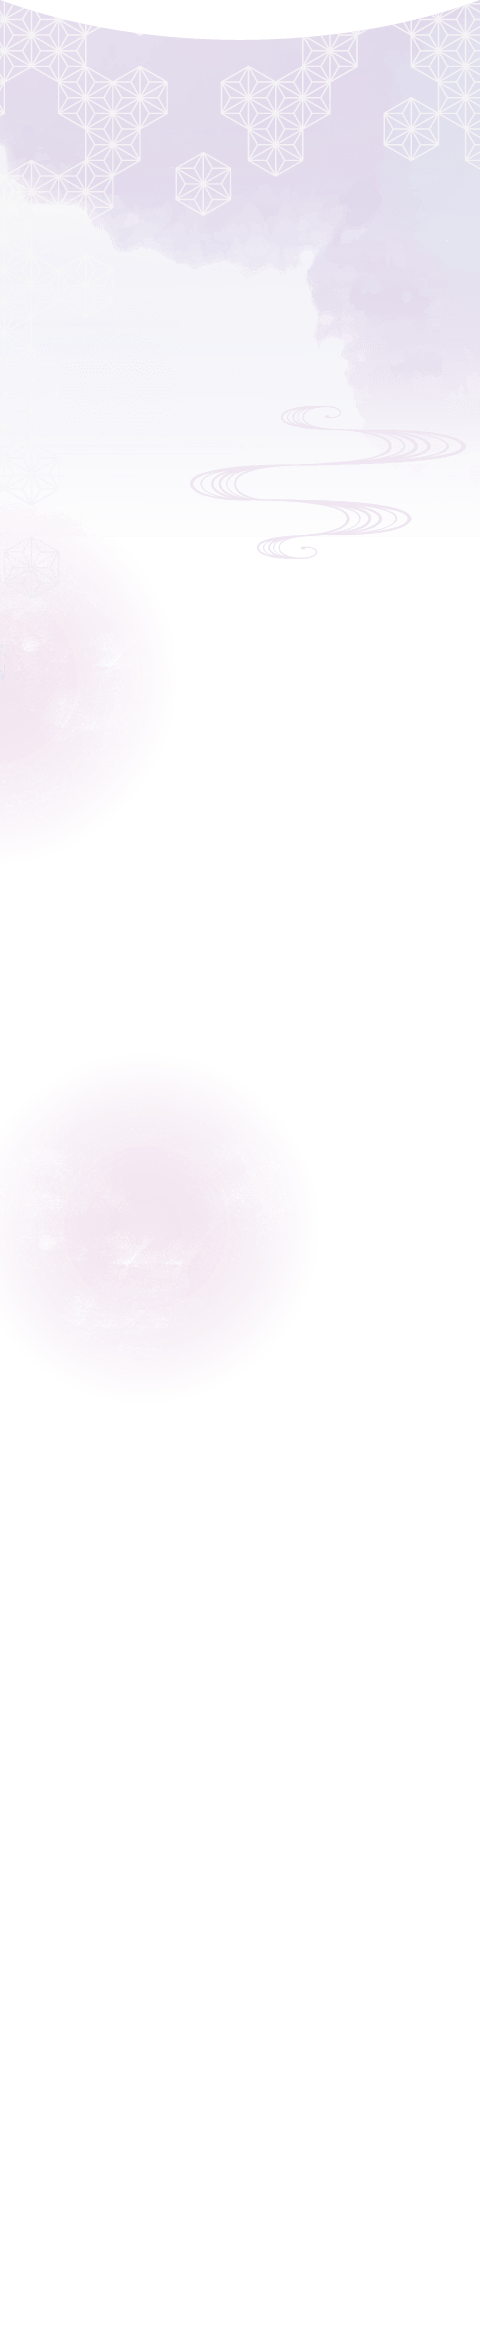
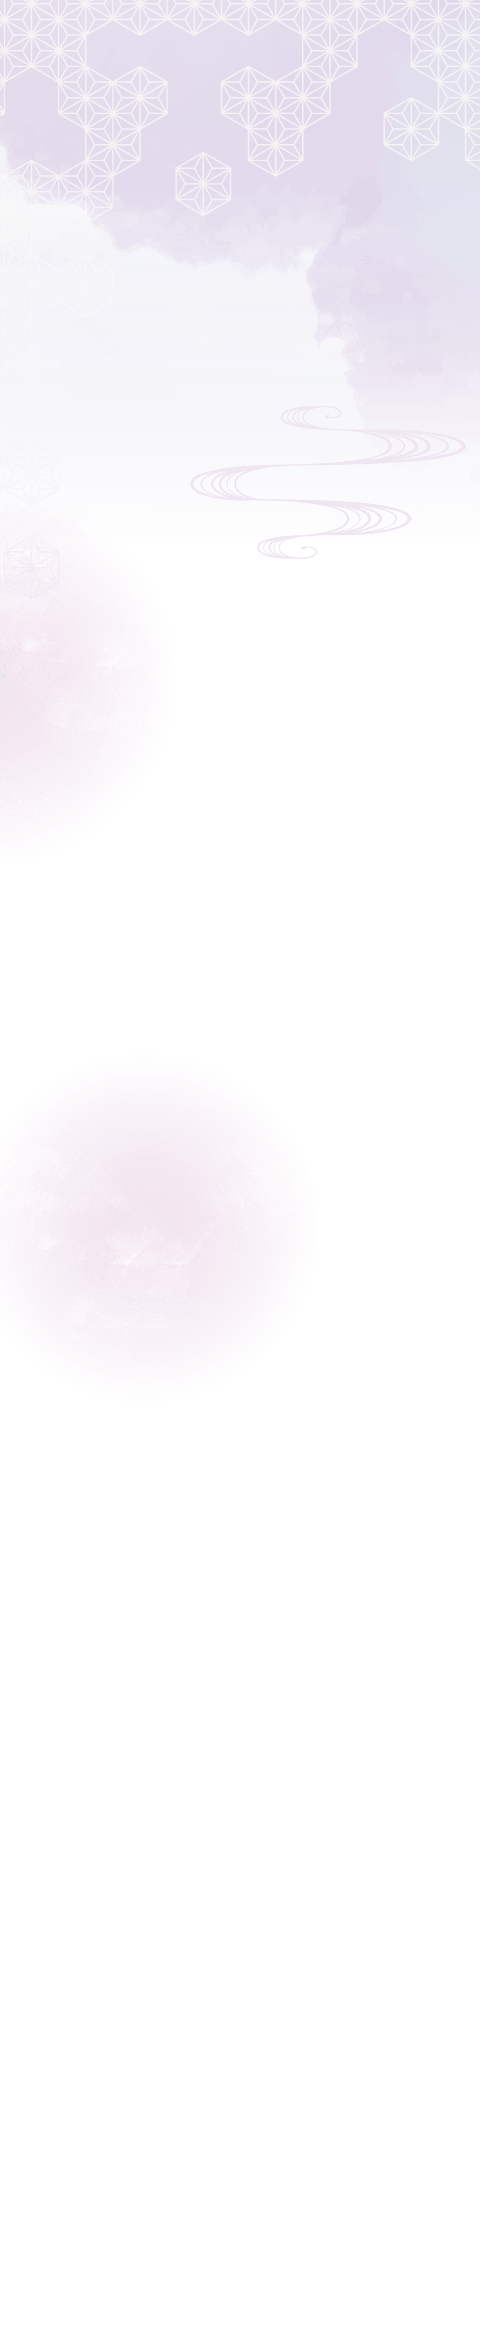
Fix cover

Changed region(s): [[0.0938, 0.0, 0.9375, 0.031]]

diff --git a/scss/_cover.scss b/scss/_cover.scss
@@ -16,7 +16,7 @@ body, main {
 
   &.--main {
     top: 0;
-    background: url("./assets/bg_main_mb.png") no-repeat 50% 0% / contain scroll;
+    background: url("./assets/bg_main_mb.png") no-repeat 50% 0% / 100% auto scroll;
 
     @at-root .hero + main > & {
       margin-top: -7.5rem;
@@ -29,7 +29,7 @@ body, main {
 
   &.--foot {
     bottom: 0;
-    background: url("./assets/bg_footer_mb.png") no-repeat 50% 100% / contain scroll;
+    background: url("./assets/bg_footer_mb.png") no-repeat 50% 100% / 100% auto scroll;
 
     @media (min-width: $breakpointSm) {
       background: url("./assets/bg_footer.png") no-repeat 50% 100% / max(100%, 1920px) scroll;

diff --git a/style.css b/style.css
@@ -510,7 +510,7 @@ body, main {
 }
 .cover.--main {
   top: 0;
-  background: url("./assets/bg_main_mb.png") no-repeat 50% 0%/contain scroll;
+  background: url("./assets/bg_main_mb.png") no-repeat 50% 0%/100% auto scroll;
 }
 .hero + main > .cover.--main {
   margin-top: -7.5rem;
@@ -523,7 +523,7 @@ body, main {
 }
 .cover.--foot {
   bottom: 0;
-  background: url("./assets/bg_footer_mb.png") no-repeat 50% 100%/contain scroll;
+  background: url("./assets/bg_footer_mb.png") no-repeat 50% 100%/100% auto scroll;
 }
 @media (min-width: 500px) {
   .cover.--foot {
